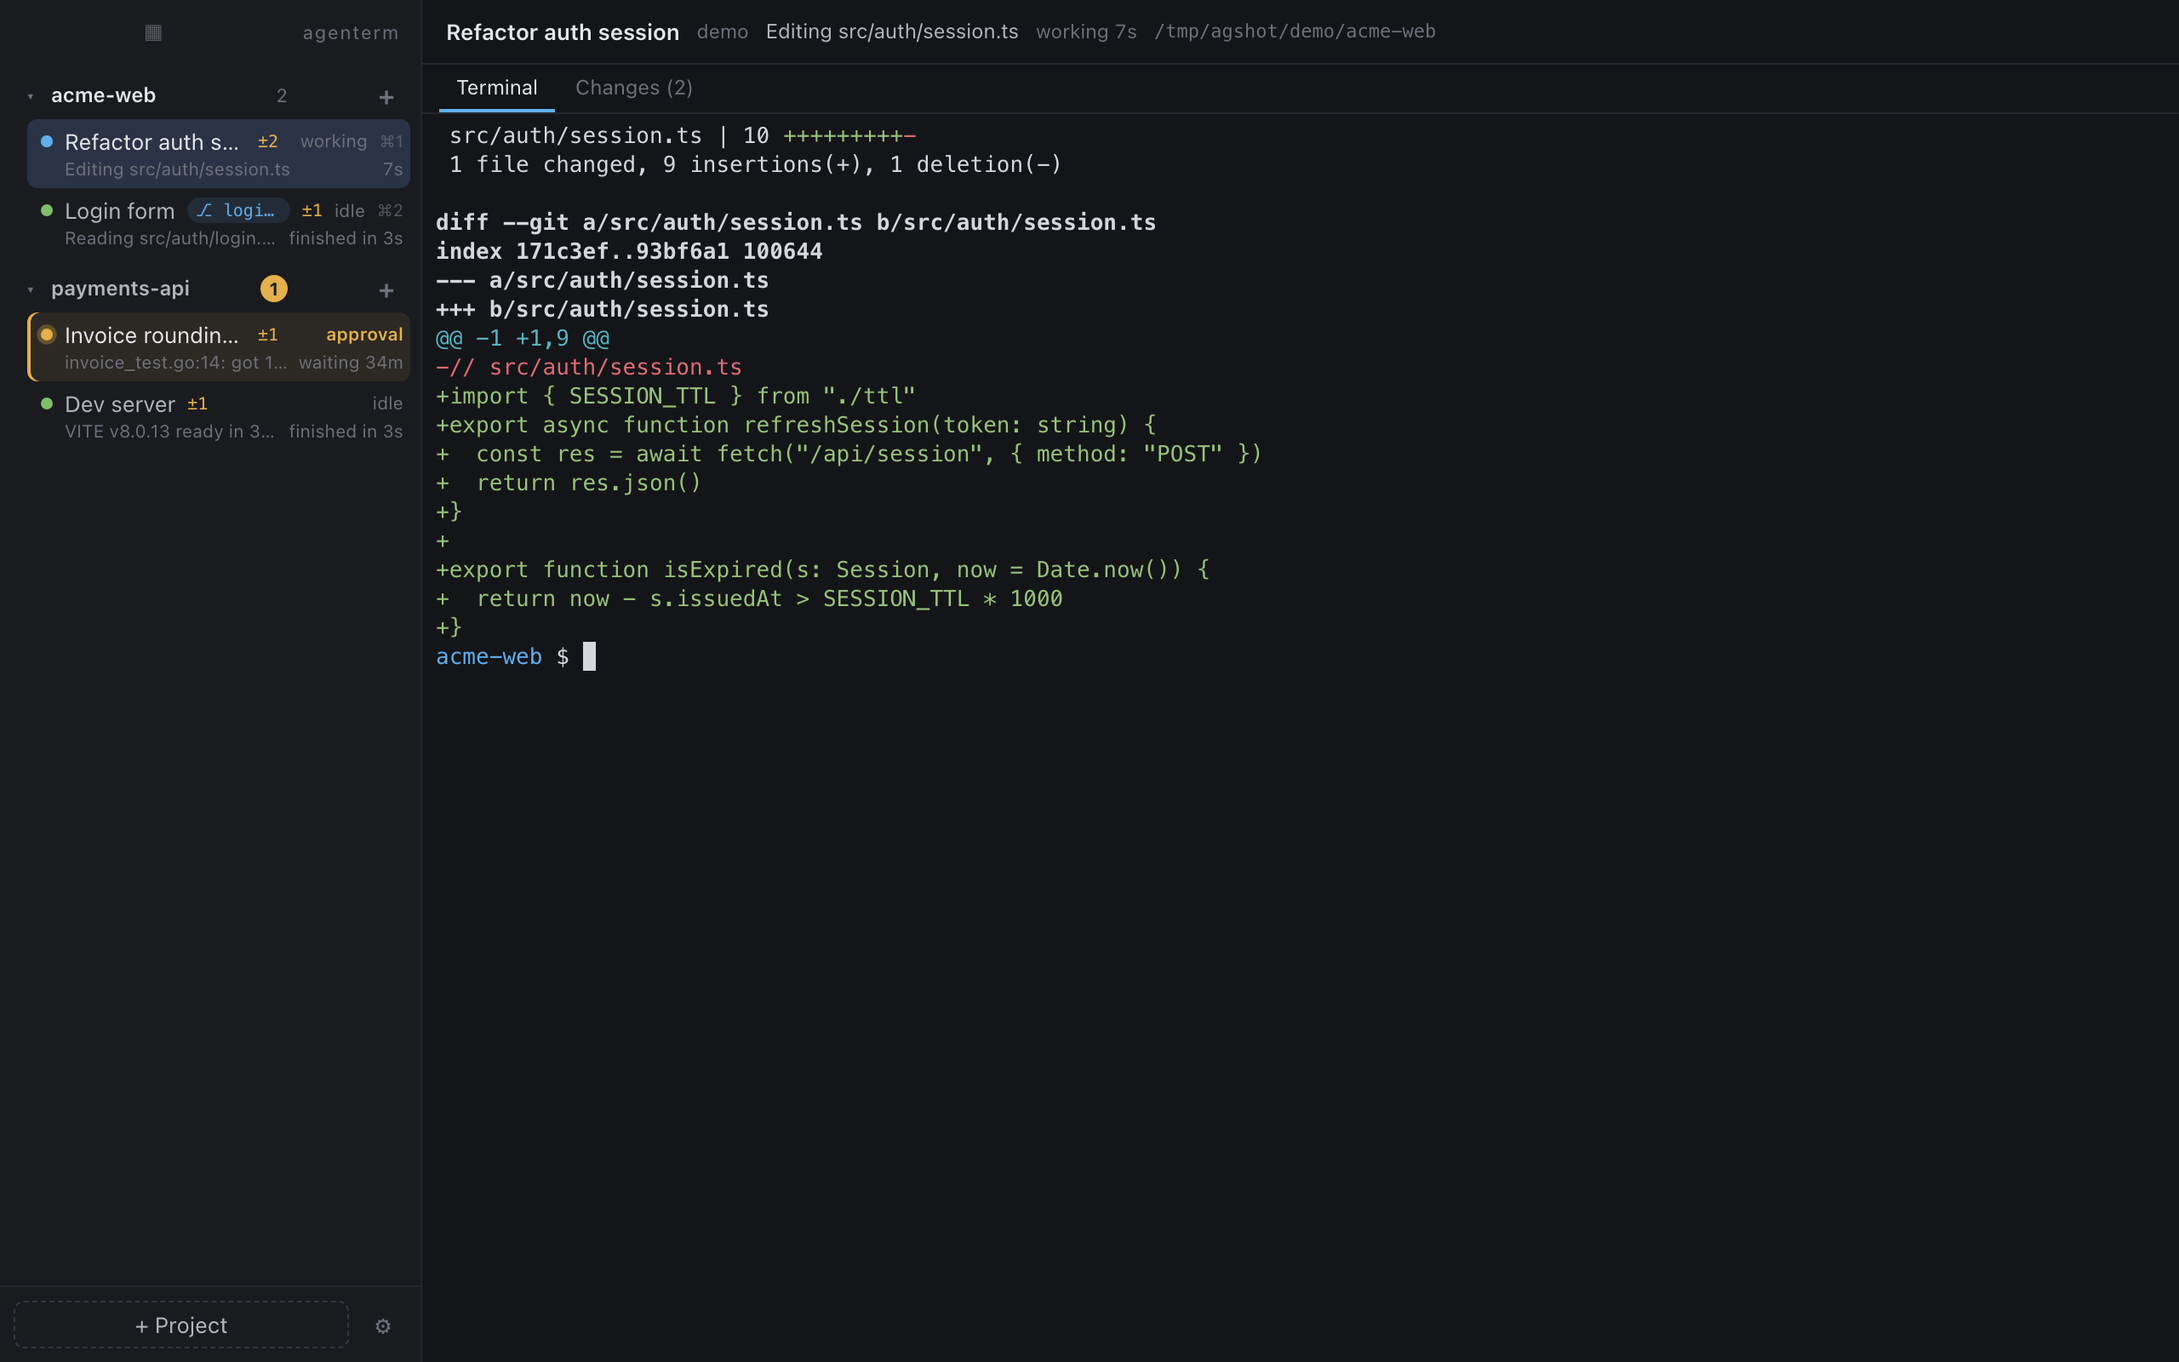
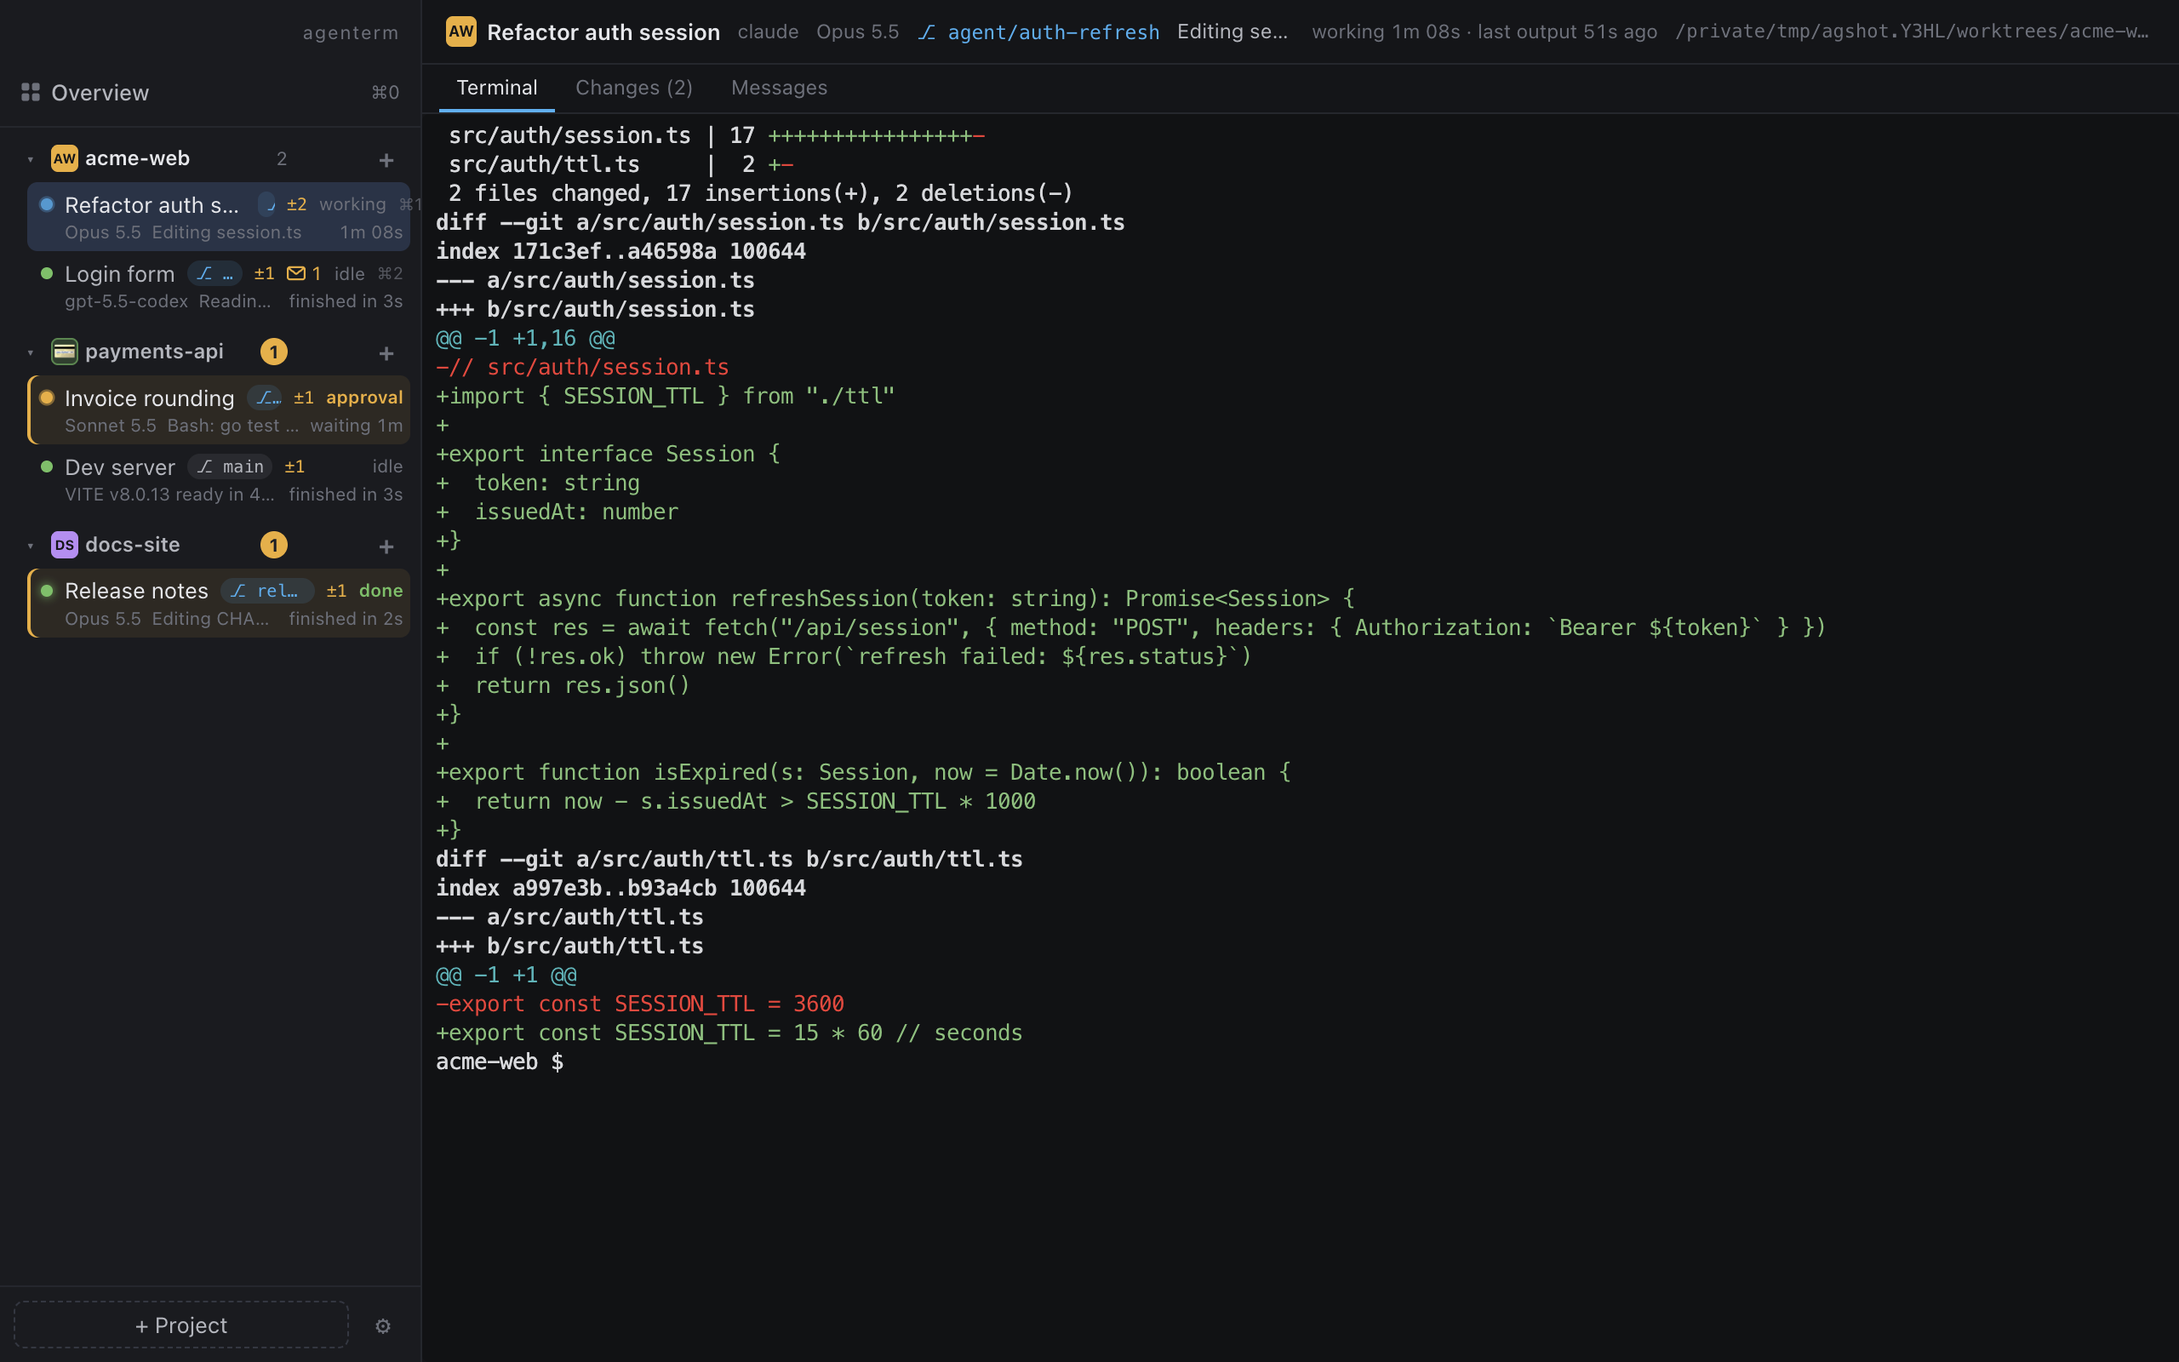
docs: new README screenshots (en/es) and the 0.7.0 features (#50)
- New main screenshot: Overview row, project badges, each session's model
  and branch, an approval and a message waiting. Three more (Overview,
  Changes, Messages) in a Screenshots section; README.es uses Spanish-UI
  captures. Made from demo data in a temp home (no real agents).
- Features: model and branch per session, the Overview, worktree by
  default; quick start "Several agents in one project" rewritten for the
  new default.
- worktrees.md / configuration.md (en/es): the worktree default shipped in
  0.7.0, not 0.6.1.

diff --git a/README.es.md b/README.es.md
@@ -13,13 +13,14 @@ y cuál está esperando tu aprobación. agenterm agrupa las sesiones por proyect
 vivos aunque cierres la app y te avisa cuando alguno te necesita.
 
 <p align="center">
-  <img src="docs/img/screenshot.png" alt="agenterm: proyectos y sesiones en la barra lateral, actividad en vivo, una aprobación pendiente y la terminal" width="900">
+  <img src="docs/img/screenshot-es.png" alt="agenterm: proyectos con sus insignias y sesiones en la barra lateral, cada una con su modelo, su rama y su actividad en vivo, una aprobación pendiente, un mensaje esperando y la terminal" width="900">
 </p>
 
 ## Funciones
 
 - **Proyectos y sesiones** en una barra lateral: cada proyecto es una carpeta y cada sesión una
-  terminal (xterm.js) con un agente o una shell. Doble clic en una sesión para ponerle nombre;
+  terminal (xterm.js) con un agente o una shell, con su modelo (*Opus 5.5*) y su rama. Doble clic
+  en una sesión para ponerle nombre;
   arrastra proyectos y sesiones para ordenarlos. Cada proyecto tiene una insignia con sus iniciales y
   un color; haz clic en ella (o clic derecho en el proyecto) para renombrarlo, elegir el color o
   poner un emoji en su lugar. Suelta archivos (p. ej. capturas) en una terminal
@@ -40,10 +41,11 @@ vivos aunque cierres la app y te avisa cuando alguno te necesita.
 - **Detección de atención**: aprobaciones, preguntas, turnos terminados y errores (hooks del agente
   o señales de terminal), con notificaciones nativas de macOS, badge del Dock y marcas en la sidebar.
 - **Actividad en vivo**: qué está haciendo cada agente ("Editando main.go"), cronómetro del turno,
-  aviso de «¿trabado?», barras de progreso (OSC 9;4) y una vista general en rejilla (⌘0).
-- **Worktrees de git por sesión**: cada agente puede trabajar en su propia rama y carpeta; la
-  pestaña **Cambios** muestra el diff y permite hacer merge a la base o eliminar el worktree de forma
-  segura.
+  aviso de «¿trabado?», barras de progreso (OSC 9;4) y una **Vista general** de todas las sesiones
+  (⌘0).
+- **Worktrees de git por sesión**: los agentes nuevos empiezan por defecto en su propia rama y
+  carpeta, así los que trabajan en paralelo nunca comparten cambios; la pestaña **Cambios** muestra
+  el diff y permite hacer merge a la base o eliminar el worktree de forma segura.
 - **Pull requests en GitHub y GitLab** desde la pestaña **Cambios**, para worktrees y para la rama
   en la que está tu carpeta principal: estado, checks y review, los comentarios (los de línea llevan
   al archivo), merge en el servidor y crear uno nuevo con título y descripción sugeridos. Usa tu
@@ -60,6 +62,13 @@ vivos aunque cierres la app y te avisa cuando alguno te necesita.
   también en las instalaciones con Homebrew.
 - **En inglés y español**: la app sigue los idiomas preferidos de macOS (con inglés como respaldo)
   o el idioma que elijas en *Ajustes → General*.
+
+## Capturas
+
+| | | |
+|---|---|---|
+| <img src="docs/img/overview-es.png" alt="La Vista general: una tarjeta por sesión con su estado, modelo, rama, actividad y el final de su terminal" width="280"> | <img src="docs/img/changes-es.png" alt="La pestaña Cambios de una sesión con worktree: archivos cambiados, diff lado a lado y Merge a main / Crear pull request" width="280"> | <img src="docs/img/messages-es.png" alt="La pestaña Mensajes: un mensaje entregado a otra sesión y una respuesta esperando, con el botón Entregar" width="280"> |
+| **Vista general** (⌘0): todas las sesiones de un vistazo | **Cambios**: el diff, merge o pull request | **Mensajes** entre las sesiones de un proyecto |
 
 ## Instalación
 
@@ -177,14 +186,15 @@ añaden a cada sesión que abre, no se instalan) ni toca las carpetas de tus pro
 **App.** La primera vez, una pantalla de bienvenida muestra qué CLIs de agentes se encontraron, te
 deja permitir las notificaciones y explica cómo poner el comando `agenterm` en tu `PATH`. Haz clic en
 **+ Añadir tu primer proyecto** (o en **+ Proyecto** de la barra lateral) y elige una carpeta. Con el **+** junto al proyecto eliges un agente
-y si corre en la misma carpeta o en un worktree nuevo; **⌘N** lanza el primer agente de la lista.
+y si corre en un worktree nuevo (por defecto) o en la carpeta del proyecto; **⌘N** lanza el primer
+agente de la lista.
 Cuando un agente te necesita verás un punto ámbar en la sidebar y una notificación.
 
-**Varios agentes en un proyecto.** Las sesiones en la carpeta del proyecto comparten su rama y sus
-cambios: lo que edita o commitea un agente lo ven los demás, y un cambio de rama los mueve a todos.
-Dale a cada agente su propio **worktree** para mantener su trabajo aparte; si ya hay otro agente
-trabajando en la carpeta, el menú **+** (y ⌘N) elige un worktree nuevo por ti. El trabajo vuelve con
-**Merge a la base** o **Crear pull request** en la pestaña Cambios. Más en
+**Varios agentes en un proyecto.** Cada agente nuevo tiene por defecto su propio **worktree** (su
+rama y su carpeta), así su trabajo queda aparte; una **Shell** simple empieza en la carpeta del
+proyecto. Las sesiones que sí comparten la carpeta del proyecto (**Misma carpeta** en el menú **+**)
+comparten su rama y sus cambios: lo que edita o commitea un agente lo ven los demás. El trabajo
+vuelve con **Merge a la base** o **Crear pull request** en la pestaña Cambios. Más en
 [docs/es/worktrees.md](docs/es/worktrees.md#varios-agentes-en-un-proyecto).
 
 **CLI.** Cualquier comando arranca el daemon si no está corriendo:

diff --git a/README.md b/README.md
@@ -13,13 +13,14 @@ approval. agenterm groups sessions by project, keeps agents alive even after you
 tells you when one of them needs you.
 
 <p align="center">
-  <img src="docs/img/screenshot.png" alt="agenterm: projects and sessions in the sidebar, live activity, an approval waiting, and the terminal" width="900">
+  <img src="docs/img/screenshot.png" alt="agenterm: projects with their badges and sessions in the sidebar, each with its model, branch and live activity, an approval waiting, a message waiting, and the terminal" width="900">
 </p>
 
 ## Features
 
 - **Projects and sessions** in a sidebar: each project is a folder and each session is a terminal
-  (xterm.js) running an agent or a shell. Double-click a session to give it a name; drag projects
+  (xterm.js) running an agent or a shell, with its model (*Opus 5.5*) and its branch. Double-click
+  a session to give it a name; drag projects
   and sessions to reorder them. Each project has a badge with its initials and a color; click it (or
   right-click the project) to rename the project, pick a color or put an emoji instead. Drop files (e.g. screenshots) on a terminal to type their paths;
   Claude Code attaches dropped images.
@@ -39,9 +40,10 @@ tells you when one of them needs you.
 - **Attention detection**: approvals, questions, finished turns and errors (agent hooks or terminal
   signals), with native macOS notifications, a Dock badge and sidebar markers.
 - **Live activity**: what each agent is doing ("Editing main.go"), a turn timer, a "stalled?"
-  warning, progress bars (OSC 9;4) and a grid overview (⌘0).
-- **Per-session git worktrees**: each agent can work on its own branch and folder; the **Changes**
-  tab shows the diff and lets you merge into the base or safely remove the worktree.
+  warning, progress bars (OSC 9;4) and an **Overview** of every session (⌘0).
+- **Per-session git worktrees**: new agents start on their own branch and folder by default, so
+  agents working in parallel never share changes; the **Changes** tab shows the diff and lets you
+  merge into the base or safely remove the worktree.
 - **Pull requests on GitHub and GitLab** from the **Changes** tab, for worktrees and for the
   branch your main folder is on: state, checks and review, the comments (line comments jump to the
   file), merging on the host, and opening a new one with a suggested title and description. It
@@ -57,6 +59,13 @@ tells you when one of them needs you.
   and an *Updates* section in **Settings → General**, Homebrew installs included.
 - **English and Spanish**: the app follows your macOS preferred languages (falling back to English)
   or the language you pick in **Settings → General**.
+
+## Screenshots
+
+| | | |
+|---|---|---|
+| <img src="docs/img/overview.png" alt="The Overview: a card per session with its state, model, branch, activity and the end of its terminal" width="280"> | <img src="docs/img/changes.png" alt="The Changes tab of a worktree session: changed files, a side-by-side diff, and Merge into main / Create pull request" width="280"> | <img src="docs/img/messages.png" alt="The Messages tab: a message delivered to another session and a reply waiting, with the Deliver button" width="280"> |
+| **Overview** (⌘0): every session at a glance | **Changes**: the diff, merge or pull request | **Messages** between the sessions of a project |
 
 ## Install
 
@@ -169,14 +178,15 @@ each session it starts, not installed) and doesn't touch your project folders.
 **App.** The first time, a welcome screen shows which agent CLIs were found, lets you allow
 notifications and shows how to put the `agenterm` command on your `PATH`. Click **+ Add your first
 project** (or the sidebar's **+ Project** button) and pick a folder. With the **+** next to a
-project you choose an agent and whether it runs in the project folder or in a new worktree; **⌘N**
+project you choose an agent and whether it runs in a new worktree (the default) or in the project
+folder; **⌘N**
 launches the first agent in the list. When an agent needs you, you'll see an amber dot in the sidebar
 and get a notification.
 
-**Several agents in one project.** Sessions in the project folder share its branch and its changes:
-what one agent edits or commits, the others see, and a branch switch moves them all. Give each agent
-its own **worktree** to keep their work apart; when another agent is already working in the
-folder, the **+** menu (and ⌘N) picks a new worktree for you. You bring the work back with **Merge
+**Several agents in one project.** Each new agent gets its own **worktree** by default (its own
+branch and folder), so their work stays apart; a plain **Shell** starts in the project folder.
+Sessions that do share the project folder (**Same folder** in the **+** menu) share its branch and
+its changes: what one agent edits or commits, the others see. You bring the work back with **Merge
 into the base** or **Create pull request** in the Changes tab. More in
 [docs/worktrees.md](docs/worktrees.md#several-agents-in-one-project).
 

diff --git a/docs/es/configuration.md b/docs/es/configuration.md
@@ -148,7 +148,7 @@ Todas las claves son opcionales; las que faltan toman el valor por defecto.
 | `activity.stall_seconds` | `180` | segundos sin salida ni eventos para marcar «¿trabado?»; `0` lo desactiva |
 | `git.editor` | `""` | para «Abrir en editor»: un comando en el `PATH` (`code`, `cursor -n`, `zed`), una ruta absoluta o el nombre de una app de macOS (`Visual Studio Code`, `Cursor.app`). Vacío: `code` si está en el `PATH`, si no Finder |
 | `git.worktree_dir` | `""` | dónde crear los worktrees (ruta absoluta o `~/…`). Vacío: `~/.agenterm/worktrees` (o `$AGENTERM_HOME/worktrees`) |
-| `git.default_mode` | `worktree` | `worktree` o `same`: dónde el menú **+** (y ⌘N) empieza un agente nuevo en un proyecto donde aún no elegiste. Las shells siempre empiezan en la carpeta del proyecto. Antes de 0.6.1 el default era `same`; un archivo que diga `same` lo conserva |
+| `git.default_mode` | `worktree` | `worktree` o `same`: dónde el menú **+** (y ⌘N) empieza un agente nuevo en un proyecto donde aún no elegiste. Las shells siempre empiezan en la carpeta del proyecto. Antes de 0.7.0 el default era `same`; un archivo que diga `same` lo conserva |
 | `sessions.restore` | `ask` | qué hace un daemon al arrancar con las sesiones que estaban vivas cuando se detuvo el anterior: `ask` (dejarlas `suspended` hasta que las reanudes o descartes), `always` (reanudarlas enseguida) o `never` (descartarlas). Ver [architecture.md](architecture.md#persistencia-y-reanudación) |
 | `messages.enabled` | `true` | mensajes entre las sesiones de un proyecto (`agenterm msg`): si se apaga, los envíos se rechazan y los hooks de los agentes no entregan nada. Ver [messages.md](messages.md) |
 | `messages.auto_deliver` | `false` | a una sesión de Claude inactiva en su prompt se le avisa de los mensajes nuevos sin el clic en **Entregar**; nunca sobre texto escrito sin enviar, y como mucho 5 veces por sesión hasta que vuelvas a intervenir en ella (y 20 por proyecto cada 10 minutos). Ver [messages.md](messages.md#entrega-automática) |

diff --git a/docs/configuration.md b/docs/configuration.md
@@ -144,7 +144,7 @@ Every key is optional; missing ones take the default value.
 | `activity.stall_seconds` | `180` | seconds without output or events before marking "stalled?"; `0` disables it |
 | `git.editor` | `""` | for "Open in editor": a command on the `PATH` (`code`, `cursor -n`, `zed`), an absolute path or the name of a macOS app (`Visual Studio Code`, `Cursor.app`). Empty: `code` if it's on the `PATH`, otherwise Finder |
 | `git.worktree_dir` | `""` | where to create worktrees (absolute path or `~/…`). Empty: `~/.agenterm/worktrees` (or `$AGENTERM_HOME/worktrees`) |
-| `git.default_mode` | `worktree` | `worktree` or `same`: where the **+** menu (and ⌘N) starts a new agent in a project where you haven't chosen yet. Shells always start in the project folder. Before 0.6.1 the default was `same`; a file that says `same` keeps it |
+| `git.default_mode` | `worktree` | `worktree` or `same`: where the **+** menu (and ⌘N) starts a new agent in a project where you haven't chosen yet. Shells always start in the project folder. Before 0.7.0 the default was `same`; a file that says `same` keeps it |
 | `sessions.restore` | `ask` | what a starting daemon does with the sessions that were live when the previous one stopped: `ask` (keep them `suspended` until you resume or discard them), `always` (resume them right away) or `never` (discard them). See [architecture.md](architecture.md#persistence-and-resume) |
 | `messages.enabled` | `true` | messages between the sessions of a project (`agenterm msg`): when off, sending is refused and agent hooks hand nothing over. See [messages.md](messages.md) |
 | `messages.auto_deliver` | `false` | a Claude session idle at its prompt is told about new messages without the **Deliver** click; never over text typed without sending, at most 5 times per session until you act on it again (and 20 per project every 10 minutes). See [messages.md](messages.md#automatic-delivery) |

diff --git a/docs/es/worktrees.md b/docs/es/worktrees.md
@@ -18,7 +18,7 @@ barra lateral y la pestaña Cambios muestran esa carpeta, así que todas las ses
 los mismos archivos.
 
 Para agentes trabajando en paralelo, dale a cada uno su propio **worktree**. Es lo que agenterm
-hace por defecto (`git.default_mode: worktree`, desde 0.6.1): un agente nuevo empieza en su propia
+hace por defecto (`git.default_mode: worktree`, desde 0.7.0): un agente nuevo empieza en su propia
 rama y carpeta, y un **Shell** simple empieza en la carpeta del proyecto. **Misma carpeta** sigue a
 un clic en el menú **+**.
 
@@ -171,7 +171,7 @@ requests se buscan (y se abren) ahí. Los comentarios se leen en páginas de 100
 - Menú **+** del proyecto: tras elegir el agente, *Misma carpeta* o *Worktree nuevo* (rama editable
   ya rellena y selector de base con la rama actual por defecto). Se recuerda la última elección por
   proyecto (para agentes; las shells siempre empiezan en la carpeta), y ⌘N la usa; si no hay
-  ninguna, se usa `git.default_mode` (`worktree` por defecto). Las elecciones de antes de 0.6.1 ya
+  ninguna, se usa `git.default_mode` (`worktree` por defecto). Las elecciones de antes de 0.7.0 ya
   no se recuerdan.
 - Fila de la sesión: chip con la rama (sin el prefijo `agent/`): azul para el worktree propio de la
   sesión, gris para la rama actual de la carpeta del proyecto (compartida con las otras sesiones de
